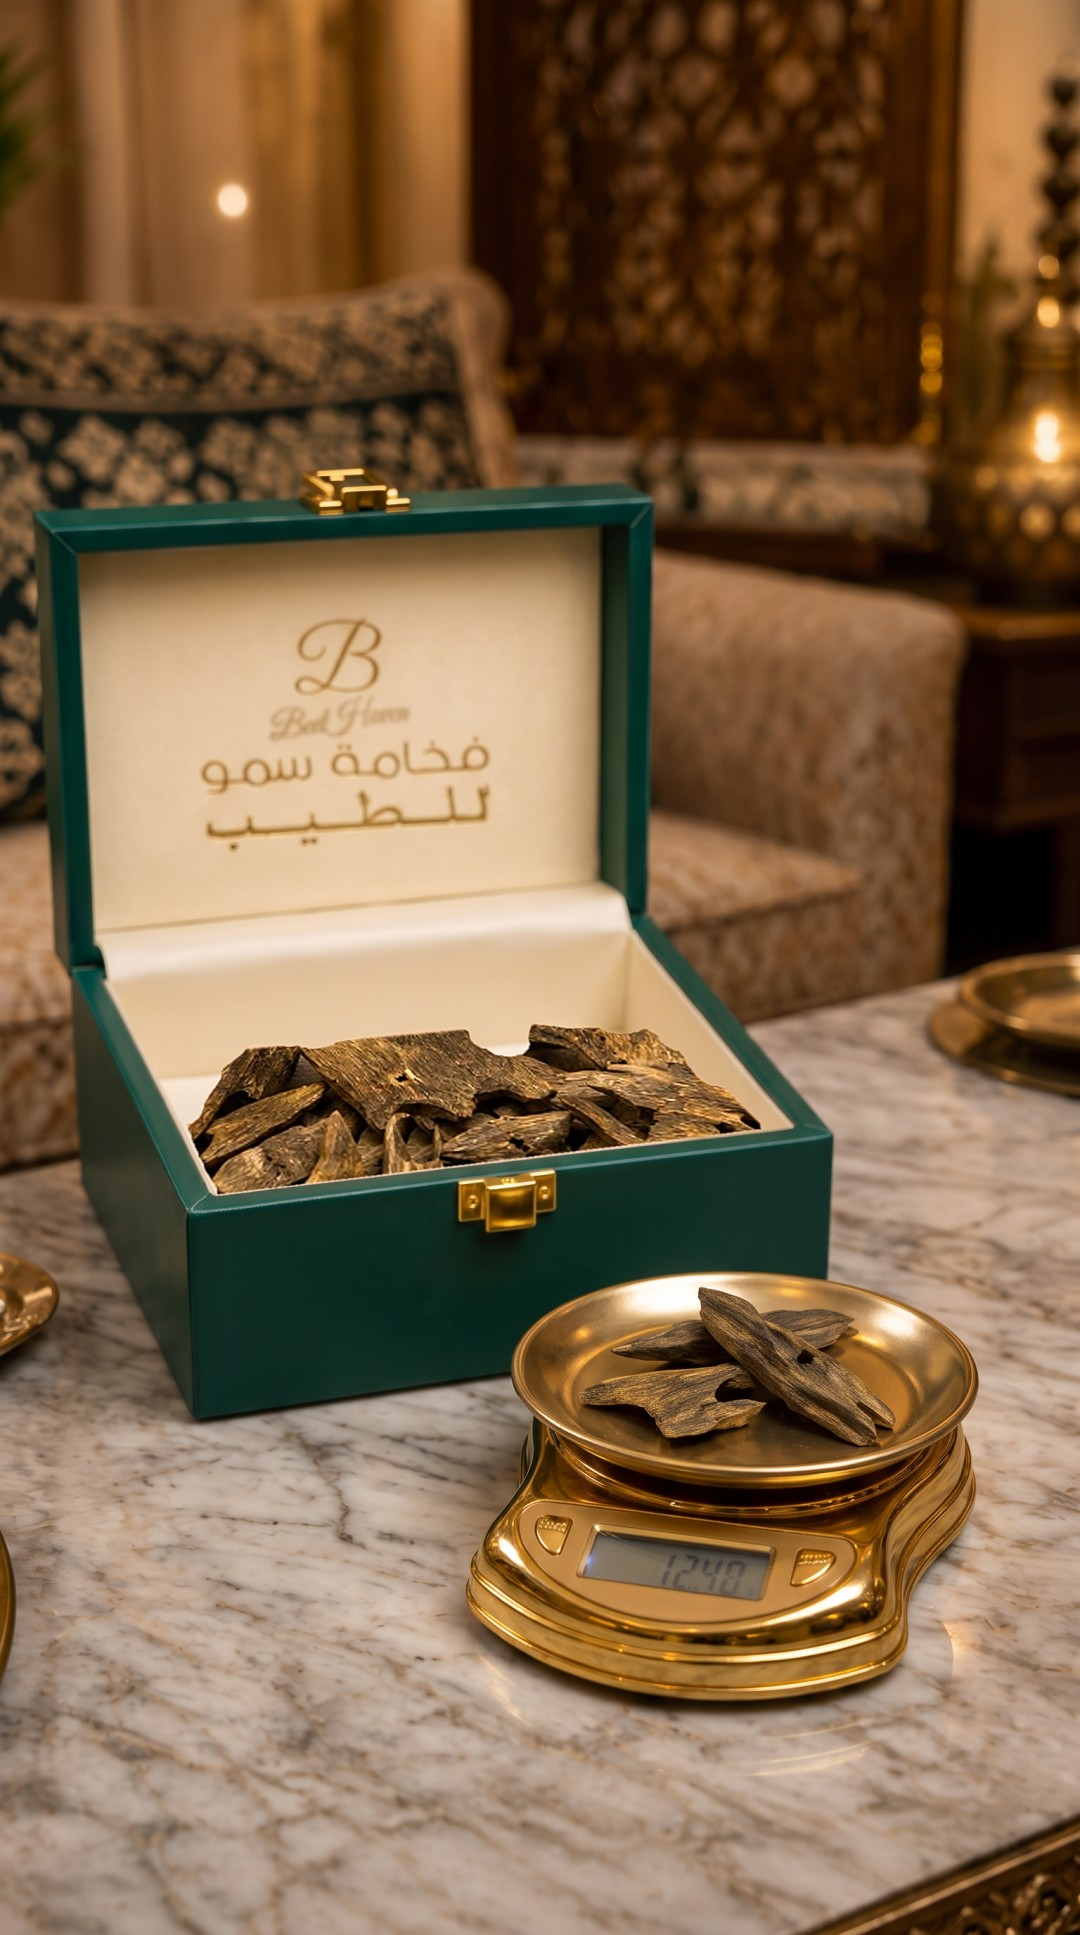
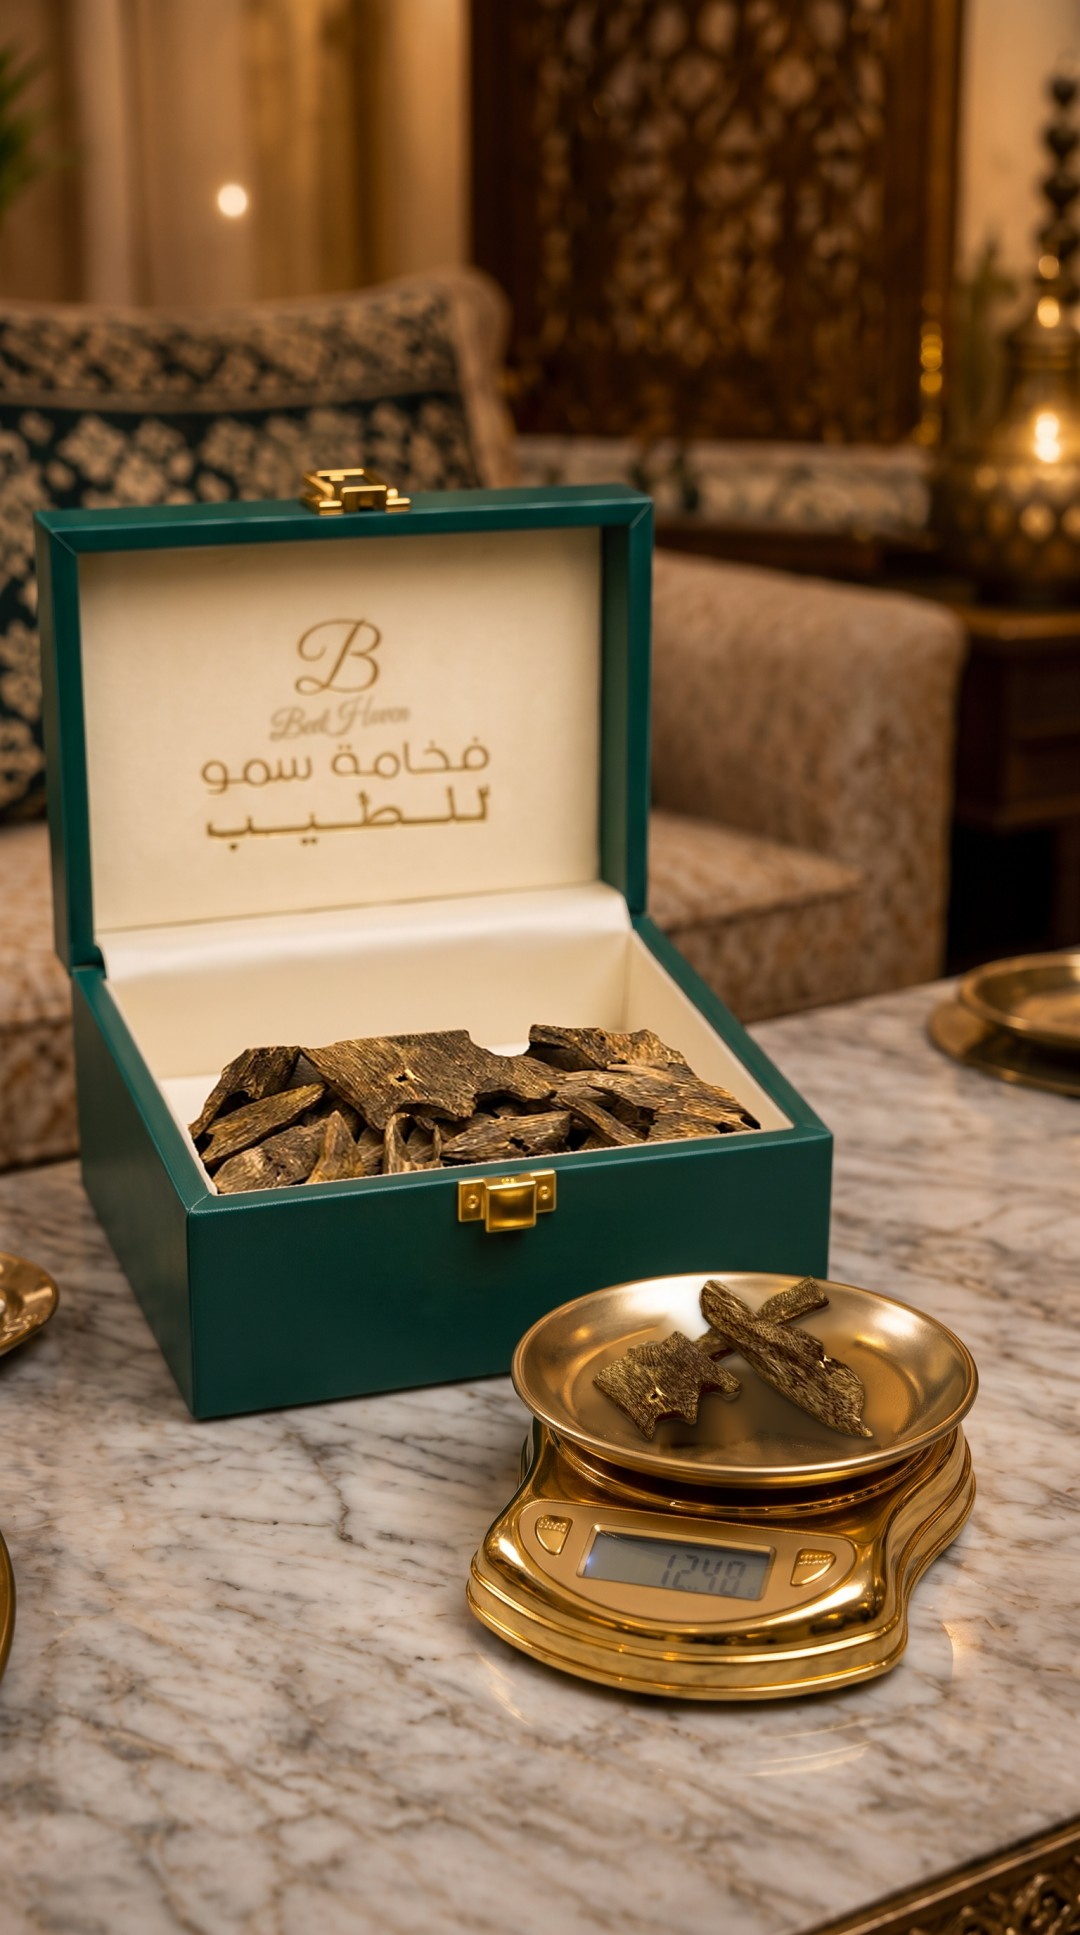
Kinam S07: real cut-out pieces on the scale pan (free, local)
Claude-Session: https://claude.ai/code/session_01TQdgL8psWQ5B4XyTxv2k9v

Changed region(s): [[0.5194, 0.6512, 0.825, 0.7442]]

diff --git a/kinam/edit/scale_pieces.py b/kinam/edit/scale_pieces.py
@@ -1,35 +1,58 @@
-"""S07: replace the AI pieces on the scale pan with real cut-outs (kinam/pieces), flat on the pan (foreshortened), colour-matched, soft shadows. Free."""
-import cv2, numpy as np
+"""S07: replace the AI pieces on the scale pan with real cut-outs (kinam/pieces). Free, local.
+1) empty pan: polar fill (the dish shading is concentric: masked px take the value at the same elliptical radius from the nearest clean angles)
+2) real pieces: Lab colour from target_kinam.json (a,b as a function of L), L matched to the scene's wood, top-left light, thickness rim, contact + soft shadow."""
+import cv2, numpy as np, json
 K = '/home/user/canva21/kinam/'; S = '/tmp/claude-0/-home-user-canva21/d92bd60e-9f87-52c3-ac35-11b21dbe0949/scratchpad/'
 im = cv2.imread(K + 'images/s07_scale_final.png'); f = im.astype(np.float32); H, W = im.shape[:2]
-x0, y0, x1, y1 = 800, 1810, 1300, 2080
-L = f.mean(2); hsv = cv2.cvtColor(im, cv2.COLOR_BGR2HSV)
-m = np.zeros((H, W), np.uint8); ell = np.zeros((H, W), np.uint8); cv2.ellipse(ell, (1050, 1945), (300, 125), 0, 0, 360, 1, -1)
-sub = ((L < 118) & (ell > 0))[y0:y1, x0:x1]
-m[y0:y1, x0:x1] = sub; m = cv2.morphologyEx(m, cv2.MORPH_OPEN, np.ones((5, 5), np.uint8))
-n, l, st, _ = cv2.connectedComponentsWithStats(m); keep = [i for i in range(1, n) if st[i, 4] > 2000]; m = np.isin(l, keep).astype(np.uint8)
-m = cv2.dilate(cv2.morphologyEx(m, cv2.MORPH_CLOSE, np.ones((21, 21), np.uint8)), np.ones((11, 11), np.uint8)) & ell
-wood_ref = f[(m > 0) & (L < 125)]; mu, sd = wood_ref.mean(0), wood_ref.std(0)
-small = cv2.inpaint(cv2.resize(im, None, fx=.5, fy=.5), cv2.resize(m * 255, None, fx=.5, fy=.5, interpolation=cv2.INTER_NEAREST), 12, cv2.INPAINT_TELEA)
-fill = cv2.GaussianBlur(cv2.resize(small, (W, H), interpolation=cv2.INTER_CUBIC).astype(np.float32), (0, 0), 5)
-A = cv2.GaussianBlur(m.astype(np.float32), (0, 0), 3)[..., None]; out = fill * A + f * (1 - A)
-cv2.imwrite(S + 's07_pan_empty.png', np.clip(out, 0, 255).astype(np.uint8))
-def piece(name, length, ang, cx, cy, flip=False, squash=0.62):
-    global out
-    p = cv2.imread(K + 'pieces/pieces_white_bg_%s.png' % name, -1).astype(np.float32)
+CX, CY, RX, RY = 1050, 1945, 300, 125            # pan inner ellipse (bowl floor + inner wall)
+ell = np.zeros((H, W), np.uint8); cv2.ellipse(ell, (CX, CY), (RX, RY), 0, 0, 360, 1, -1)
+L = f.mean(2); m = ((L < 118) & (ell > 0)).astype(np.uint8)
+m = cv2.morphologyEx(m, cv2.MORPH_OPEN, np.ones((5, 5), np.uint8))
+n, l, st, _ = cv2.connectedComponentsWithStats(m); m = np.isin(l, [i for i in range(1, n) if st[i, 4] > 2000]).astype(np.uint8)
+m = cv2.dilate(cv2.morphologyEx(m, cv2.MORPH_CLOSE, np.ones((25, 25), np.uint8)), np.ones((17, 17), np.uint8)) & ell
+wood = f[(m > 0) & (L < 118)]; Lw = cv2.cvtColor(np.clip(wood, 0, 255).astype(np.uint8)[None], cv2.COLOR_BGR2LAB)[0, :, 0].astype(np.float32)
+Lmu, Lsd = Lw.mean(), Lw.std()
+# --- AI piece footprint (hand-drawn polygon); the real pieces are laid over it, leftovers inpainted after
+OX, OY = 700, 1750
+poly = np.array([(120,240),(160,205),(165,170),(230,145),(290,80),(340,82),(400,112),(500,110),(525,130),(510,160),(490,175),(575,265),(560,300),(510,310),(470,295),(380,280),(330,300),(240,300),(140,265)], np.int32) + [OX, OY]
+aim = np.zeros((H, W), np.uint8); cv2.fillPoly(aim, [poly], 1)
+aiw = aim & ((L < 120) | (cv2.cvtColor(im, cv2.COLOR_BGR2HSV)[..., 1] < 125)).astype(np.uint8)
+aiw = cv2.dilate(cv2.morphologyEx(aiw, cv2.MORPH_CLOSE, np.ones((9, 9), np.uint8)), np.ones((7, 7), np.uint8))
+out = f.copy(); cover = np.zeros((H, W), np.float32)
+# --- real pieces
+T = json.load(open(K + 'pieces/target_kinam.json'))
+def piece(name, length, ang, cx, cy, flip=False, squash=0.8, sh_k=0.6):
+    global out, cover
+    p = cv2.imread(K + 'pieces/pieces_white_bg_%s.png' % name, -1)
     if flip: p = p[:, ::-1]
     h, w = p.shape[:2]; s = length / max(h, w); p = cv2.resize(p, (int(w * s), int(h * s)), interpolation=cv2.INTER_CUBIC)
-    h, w = p.shape[:2]; D = int(np.hypot(h, w)) + 4; c = np.zeros((D, D, 4), np.float32); c[(D - h) // 2:(D - h) // 2 + h, (D - w) // 2:(D - w) // 2 + w] = p
+    h, w = p.shape[:2]; D = int(np.hypot(h, w)) + 30; c = np.zeros((D, D, 4), np.uint8); c[(D - h) // 2:(D - h) // 2 + h, (D - w) // 2:(D - w) // 2 + w] = p
     c = cv2.warpAffine(c, cv2.getRotationMatrix2D((D / 2, D / 2), ang, 1), (D, D), flags=cv2.INTER_CUBIC)
     c = cv2.resize(c, (D, int(D * squash)), interpolation=cv2.INTER_AREA); h, w = c.shape[:2]
-    rgb, a = c[..., :3], np.clip(c[..., 3] / 255, 0, 1); a = cv2.GaussianBlur(cv2.erode(a, np.ones((3, 3), np.uint8)), (0, 0), 0.8)
-    sel = a > 0.9; pm, ps = rgb[sel].mean(0), rgb[sel].std(0); rgb = (rgb - pm) / ps * sd * 0.8 + mu   # match the scene's wood
-    X, Y = int(cx - w / 2), int(cy - h / 2)
-    sh = cv2.GaussianBlur(a, (0, 0), 7); M = np.float32([[1, 0, 5], [0, 1, 9]]); sh = cv2.warpAffine(sh, M, (w, h))
-    reg = out[Y:Y + h, X:X + w]; reg *= (1 - 0.55 * sh[..., None])
-    reg[:] = rgb * a[..., None] + reg * (1 - a[..., None])
-piece('05', 400, 25, 1110, 1915, squash=0.75)
-piece('07', 270, -8, 960, 1960, squash=0.75)
-piece('04', 220, -15, 1150, 1990, flip=True, squash=0.75)
-r = np.clip(out, 0, 255).astype(np.uint8); cv2.imwrite(K + 'images/s07_scale_final2.png', r)
-cv2.imwrite(S + 'pan2.jpg', np.hstack([im[1700:2300, 600:1500], r[1700:2300, 600:1500]]))
+    a = cv2.GaussianBlur(cv2.erode(c[..., 3].astype(np.float32) / 255, np.ones((3, 3), np.uint8)), (0, 0), 0.7)
+    lab = cv2.cvtColor(c[..., :3], cv2.COLOR_BGR2LAB).astype(np.float32); sel = a > 0.9
+    Lp = lab[..., 0]; Lp = (Lp - Lp[sel].mean()) / (Lp[sel].std() + 1e-3) * Lsd * 0.9 + Lmu
+    yy, xx = np.mgrid[0:h, 0:w]; Lp = Lp * (1.08 - 0.16 * (0.5 * yy / h + 0.5 * xx / w))   # light from top-left
+    # thickness: darker rim along the lower edge
+    rim = np.clip(a - np.roll(a, -6, 0), 0, 1); Lp = Lp * (1 - 0.45 * cv2.GaussianBlur(rim, (0, 0), 1.5))
+    lab[..., 0] = np.clip(Lp, 0, 255); Lm = lab[..., 0][sel].mean()
+    for ch, key, warm in ((1, 'a_of_L', 2.0), (2, 'b_of_L', 6.0)):   # keep the piece's own resin streak variation, shift its mean to the Kinam target (+ warm room light)
+        own = lab[..., ch]; lab[..., ch] = (own - own[sel].mean()) * 1.3 + T[key][0] * Lm + T[key][1] + warm
+    rgb = cv2.cvtColor(np.clip(lab, 0, 255).astype(np.uint8), cv2.COLOR_LAB2BGR).astype(np.float32)
+    rgb = rgb + 0.2 * (rgb - cv2.GaussianBlur(rgb, (0, 0), 1.2))      # restore grain after upscale
+    X0, Y0 = int(cx - w / 2), int(cy - h / 2); reg = out[Y0:Y0 + h, X0:X0 + w]
+    soft = cv2.warpAffine(cv2.GaussianBlur(a, (0, 0), 12), np.float32([[1, 0, 8], [0, 1, 14]]), (w, h))
+    cont = cv2.warpAffine(cv2.GaussianBlur(a, (0, 0), 3), np.float32([[1, 0, 2], [0, 1, 5]]), (w, h))
+    reg *= (1 - sh_k * 0.55 * soft[..., None]) * (1 - 0.5 * cont[..., None] * (1 - a[..., None]))
+    reg[:] = rgb * a[..., None] + reg * (1 - a[..., None]); cv = cover[Y0:Y0 + h, X0:X0 + w]; cv[:] = np.maximum(cv, a)
+import sys
+CFG = json.loads(sys.argv[1])
+small = cv2.inpaint(cv2.resize(im, None, fx=.5, fy=.5), cv2.resize(aiw * 255, None, fx=.5, fy=.5, interpolation=cv2.INTER_NEAREST), 10, cv2.INPAINT_TELEA)
+fill = cv2.GaussianBlur(cv2.resize(small, (W, H), interpolation=cv2.INTER_CUBIC).astype(np.float32), (0, 0), 3)
+A = cv2.GaussianBlur(aiw.astype(np.float32), (0, 0), 2)[..., None]; out = fill * A + f * (1 - A)
+cv2.imwrite(S + 's07_pan_empty.png', np.clip(out, 0, 255).astype(np.uint8))
+for pc in CFG: piece(*pc[:5], flip=pc[5] if len(pc) > 5 else False, squash=0.85)
+left = (aiw > 0) & (cover < 0.5); print('AI px still visible', int(left.sum()))
+r = np.clip(out, 0, 255).astype(np.uint8); cv2.imwrite(K + 'images/s07_scale_real.png', r)
+v = r.copy(); v[left] = (v[left] * 0.4 + np.array([255, 0, 255]) * 0.6).astype(np.uint8)
+cv2.imwrite(S + 'pan2.jpg', np.hstack([im[1700:2300, 600:1500], v[1700:2300, 600:1500], r[1700:2300, 600:1500]]))
